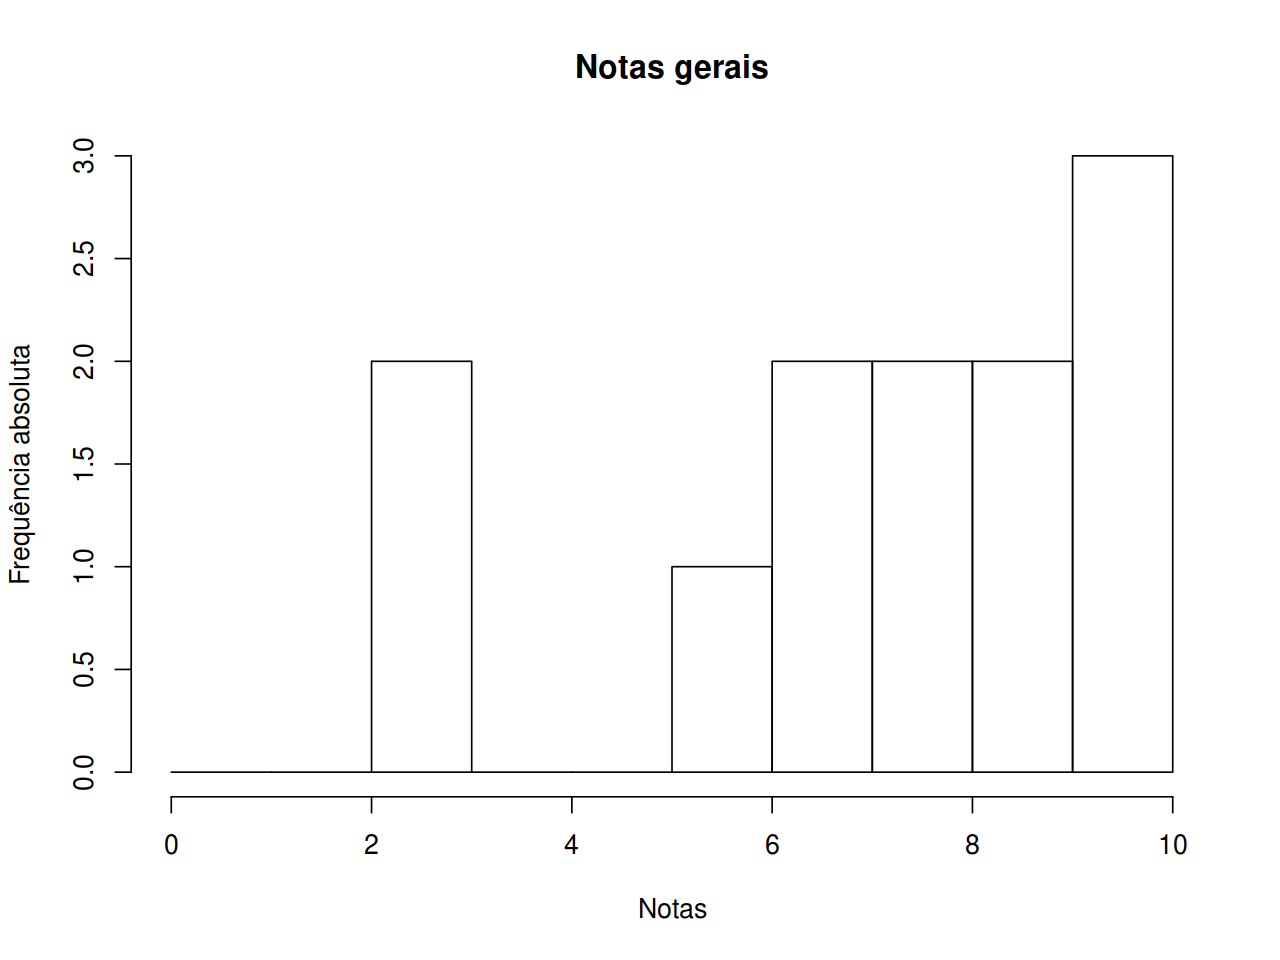
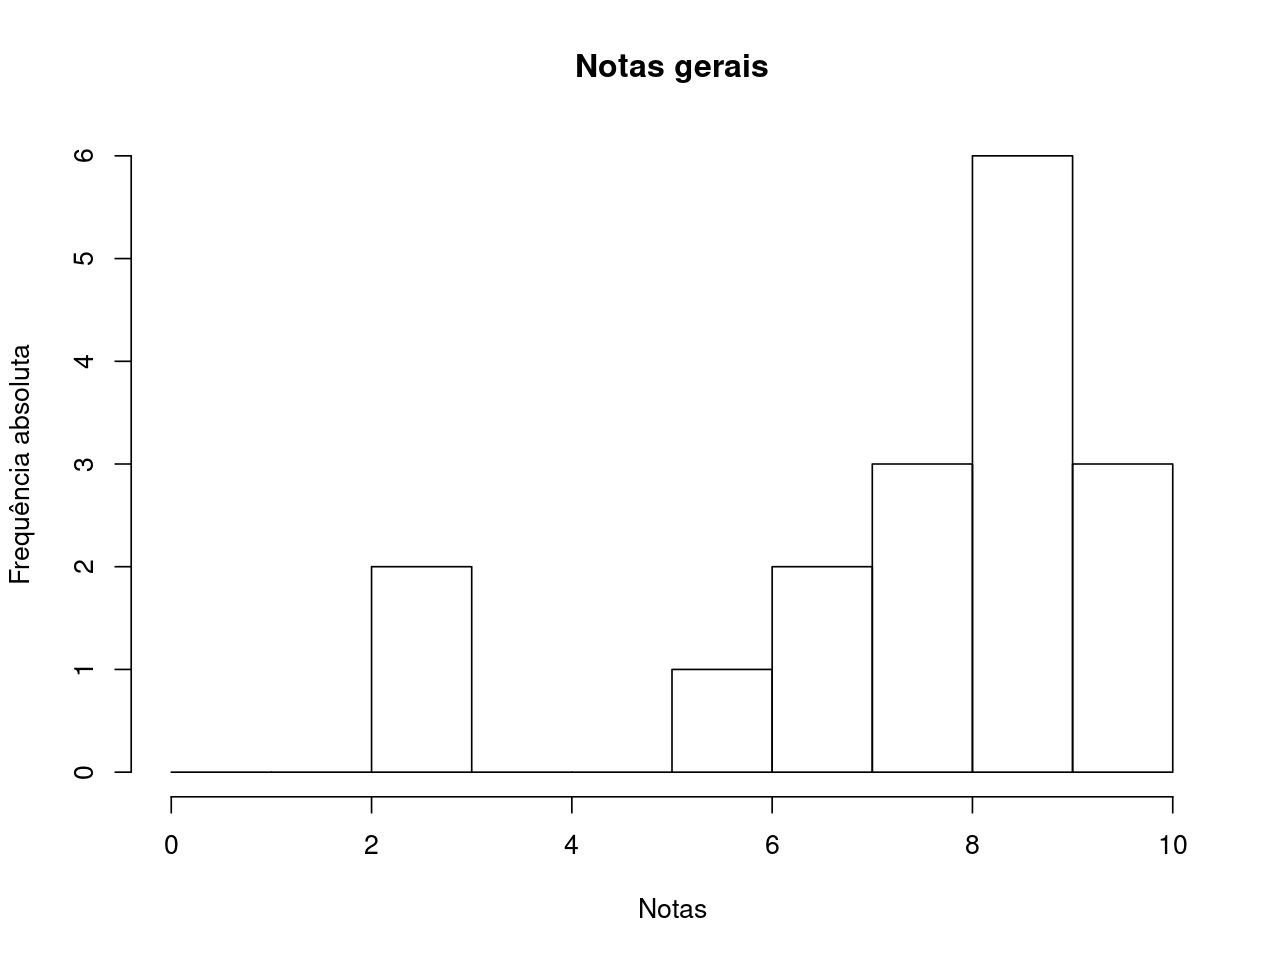
Notas finais

diff --git a/notas.html b/notas.html
@@ -313,7 +313,7 @@ hist(notas.all, breaks = breaks, right = FALSE, include.lowest = TRUE,
 }
 round(statm(notas.all), 2)</code></pre>
 <pre><code>  Min    Q1    Q2    Q3   Max Média     s   NAs 
- 2.10  5.65  7.20  8.95  9.10  6.76  2.44 14.00 </code></pre>
+ 2.10  6.70  8.00  8.60  9.10  7.18  2.14 22.00 </code></pre>
 </div>
 <div id="resumos-por-prova" class="section level2">
 <h2>Resumos por prova</h2>
@@ -323,27 +323,30 @@ boxplot(notas[, notas.col], ylim = c(0, 10), ylab = &quot;Notas&quot;)</code></p
 <p><img src="figures/unnamed-chunk-4-1.png" width="640" style="display: block; margin: auto;" /></p>
 <p>Resumo dos cinco números, média, desvio-padrão, e número de provas não realizadas (NA):</p>
 <pre class="r"><code>round(apply(notas[, notas.col, drop = FALSE], 2, statm), 2)</code></pre>
-<pre><code>        P1   P2
-Min   2.10 5.10
-Q1    5.25 6.20
-Q2    8.90 6.70
-Q3    9.05 7.20
-Max   9.10 7.20
-Média 6.96 6.48
-s     3.21 0.88
-NAs   6.00 8.00</code></pre>
+<pre><code>        P1   P2   P3
+Min   2.10 5.10 7.50
+Q1    5.25 6.20 8.00
+Q2    8.90 6.70 8.30
+Q3    9.05 7.20 8.50
+Max   9.10 7.20 8.60
+Média 6.96 6.48 8.18
+s     3.21 0.88 0.44
+NAs   6.00 8.00 8.00</code></pre>
 </div>
 <div id="notas-individuais" class="section level2">
 <h2>Notas individuais</h2>
 <!-- **Aqui estão apenas as notas individuais de cada sabatina. Veja na seção -->
 <!-- abaixo as médias finais calculadas!** -->
-<pre class="r"><code>kable(notas[, c(1, notas.col)], align = &quot;c&quot;)</code></pre>
+<pre class="r"><code>kable(notas, align = &quot;c&quot;)</code></pre>
 <table>
 <thead>
 <tr class="header">
 <th align="center">Matricula</th>
 <th align="center">P1</th>
 <th align="center">P2</th>
+<th align="center">P3</th>
+<th align="center">Média</th>
+<th align="center">Situação</th>
 </tr>
 </thead>
 <tbody>
@@ -351,34 +354,55 @@ NAs   6.00 8.00</code></pre>
 <td align="center">20123200</td>
 <td align="center">2.1</td>
 <td align="center">NA</td>
+<td align="center">NA</td>
+<td align="center">NA</td>
+<td align="center">NA</td>
 </tr>
 <tr class="even">
 <td align="center">20131111</td>
 <td align="center">9.0</td>
 <td align="center">7.2</td>
+<td align="center">8.0</td>
+<td align="center">8.1</td>
+<td align="center">Aprovado</td>
 </tr>
 <tr class="odd">
 <td align="center">20131487</td>
 <td align="center">8.9</td>
+<td align="center">NA</td>
+<td align="center">NA</td>
+<td align="center">NA</td>
 <td align="center">NA</td>
 </tr>
 <tr class="even">
 <td align="center">20132481</td>
 <td align="center">9.1</td>
 <td align="center">7.2</td>
+<td align="center">8.5</td>
+<td align="center">8.3</td>
+<td align="center">Aprovado</td>
 </tr>
 <tr class="odd">
 <td align="center">20136648</td>
 <td align="center">8.0</td>
 <td align="center">5.1</td>
+<td align="center">8.3</td>
+<td align="center">7.1</td>
+<td align="center">Aprovado</td>
 </tr>
 <tr class="even">
 <td align="center">20147987</td>
 <td align="center">9.1</td>
 <td align="center">6.2</td>
+<td align="center">8.6</td>
+<td align="center">8.0</td>
+<td align="center">Aprovado</td>
 </tr>
 <tr class="odd">
 <td align="center">20148728</td>
+<td align="center">NA</td>
+<td align="center">NA</td>
+<td align="center">NA</td>
 <td align="center">NA</td>
 <td align="center">NA</td>
 </tr>
@@ -386,14 +410,23 @@ NAs   6.00 8.00</code></pre>
 <td align="center">20150476</td>
 <td align="center">NA</td>
 <td align="center">NA</td>
+<td align="center">NA</td>
+<td align="center">NA</td>
+<td align="center">NA</td>
 </tr>
 <tr class="odd">
 <td align="center">20154698</td>
 <td align="center">2.5</td>
 <td align="center">6.7</td>
+<td align="center">7.5</td>
+<td align="center">5.6</td>
+<td align="center">Exame</td>
 </tr>
 <tr class="even">
 <td align="center">20157864</td>
+<td align="center">NA</td>
+<td align="center">NA</td>
+<td align="center">NA</td>
 <td align="center">NA</td>
 <td align="center">NA</td>
 </tr>
@@ -401,14 +434,23 @@ NAs   6.00 8.00</code></pre>
 <td align="center">20158854</td>
 <td align="center">NA</td>
 <td align="center">NA</td>
+<td align="center">NA</td>
+<td align="center">NA</td>
+<td align="center">NA</td>
 </tr>
 <tr class="even">
 <td align="center">20161294</td>
 <td align="center">NA</td>
 <td align="center">NA</td>
+<td align="center">NA</td>
+<td align="center">NA</td>
+<td align="center">NA</td>
 </tr>
 <tr class="odd">
 <td align="center">20161460</td>
+<td align="center">NA</td>
+<td align="center">NA</td>
+<td align="center">NA</td>
 <td align="center">NA</td>
 <td align="center">NA</td>
 </tr>

diff --git a/index.html b/index.html
@@ -290,14 +290,12 @@ $(document).ready(function () {
 
 
 <p><a href="https://travis-ci.org/fernandomayer/ce001e-2016-2"><img src="https://travis-ci.org/fernandomayer/ce001e-2016-2.svg" alt="Build Status" /></a></p>
-<!-- <div class="alert alert-danger" role="alert"> -->
-<!-- **ATENÇÃO!** -->
-<!-- <\!-- - A segunda prova está disponível neste [link](exercicios/P2_ce001.pdf), -\-> -->
-<!-- <\!--   e deve ser entregue até o dia 28/11 (segunda-feira). -\-> -->
-<!-- - Haverá aula também às segundas-feiras nos dias: 28/11 e 05/12. -->
-<!-- <\!-- - Enquanto durar a ocupação no prédio de Exatas, as aulas serão no -\-> -->
-<!-- <\!--   LABEST. -\-> -->
-<!-- </div> -->
+<div class="alert alert-danger" role="alert">
+<p><strong>ATENÇÃO!</strong></p>
+<ul>
+<li>O exame será dia 14/12 às 14:00 no LEG (Laboratório de Estatística e Geoinformação - última sala à direita do corredor do segundo andar do prédio novo de Exatas)</li>
+</ul>
+</div>
 <div id="detalhes-da-oferta-da-disciplina" class="section level1">
 <h1>Detalhes da oferta da disciplina</h1>
 <ul>
